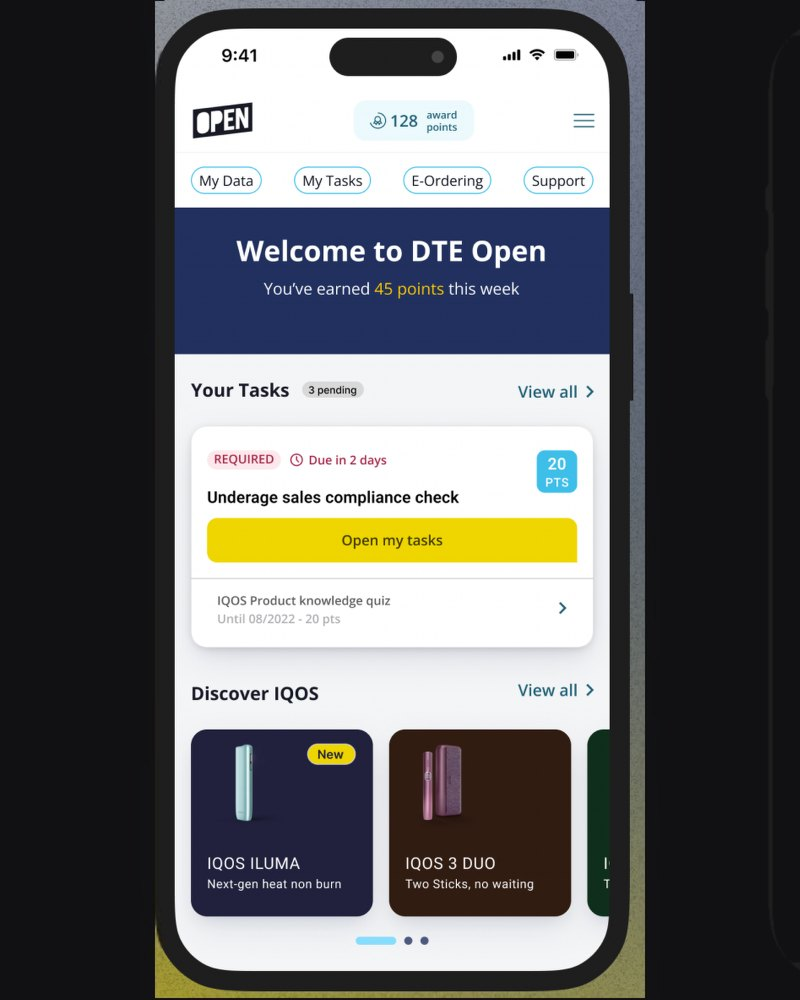
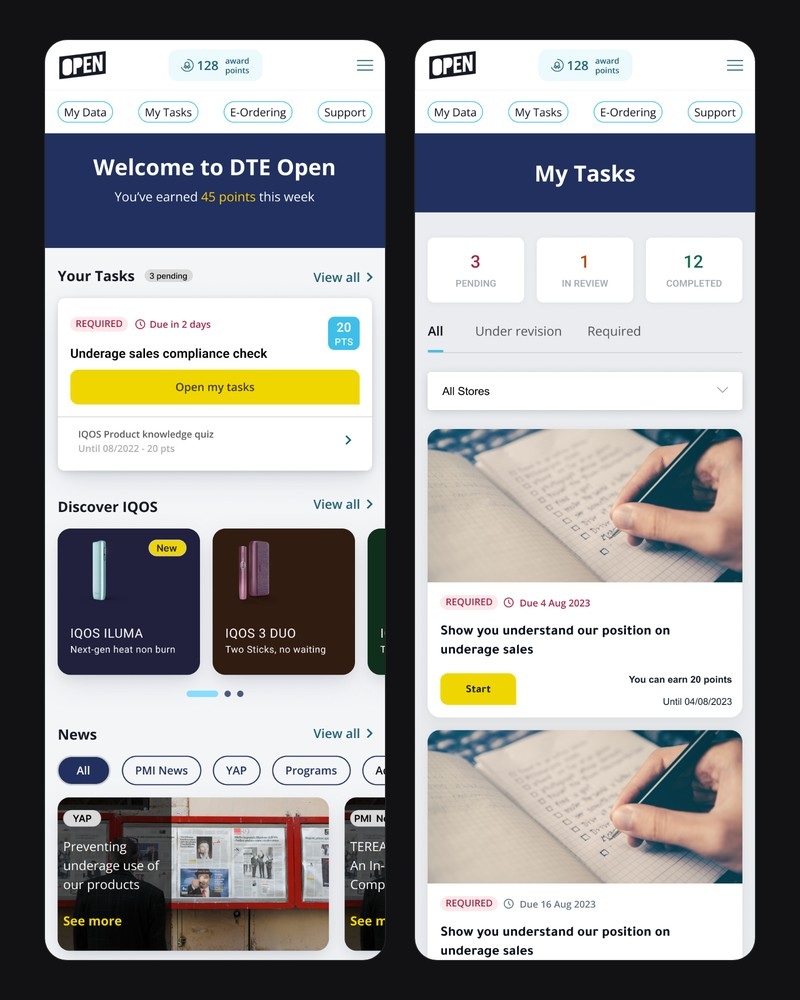
PMI: rebuilt evidence images from Figma at 2x; full-width figures and facts strip on case studies
Claude-Session: https://claude.ai/code/session_01AXHPT6AWr4FLTU6gsMczeY

diff --git a/src/styles.css b/src/styles.css
@@ -84,12 +84,11 @@ p { margin: 0 0 var(--s3); }
 
 .body { display: grid; gap: var(--s6); margin-top: var(--s5); }
 @media (min-width: 1024px) {
-  .body { grid-template-columns: 2fr 1fr; gap: var(--s6); align-items: start; margin-top: var(--s6); }
-  .panel { position: sticky; top: calc(var(--nav-h) + 32px); order: 2; }
-  .narrative { order: 1; }
+  .body { margin-top: var(--s6); }
+
 }
 /* Below 1024px the panel sits under the hero, above the narrative */
-@media (max-width: 1023.98px) { .panel { order: 1; } .narrative { order: 2; } }
+
 
 /* Metrics strip under the lede */
 .metrics { margin: 0 0 var(--s5); }
@@ -116,7 +115,7 @@ p { margin: 0 0 var(--s3); }
 .outcomes li { font-size: 15px; line-height: 1.5; padding: 10px 0; border-top: 1px solid var(--border); }
 .outcomes li:first-child { font-weight: 500; }
 
-.narrative { max-width: 62ch; }
+.narrative > :not(.fig) { max-width: 68ch; }
 .narrative h3 { font-family: var(--serif); font-size: 32px; line-height: 1.15; margin: var(--s6) 0 var(--s3); }
 @media (min-width: 1024px) { .narrative h3 { margin-top: var(--s7); } }
 .narrative h3:first-child { margin-top: 0; }
@@ -153,4 +152,9 @@ figcaption { font-size: 14px; line-height: 1.5; color: var(--text-2); margin-top
   .about-list > div { grid-template-columns: 220px 1fr; }
   .about-list ul { columns: 3; }
   .about-list .single { columns: 1; }
+}
+
+@media (min-width: 1024px) {
+  .panel dl { display: grid; grid-template-columns: 0.6fr 1.4fr 2fr 3fr; gap: var(--s4); padding-top: var(--s3); }
+  .panel .row { grid-template-columns: 1fr; gap: 6px; border-bottom: 0; padding: 0; }
 }

diff --git a/content/case-studies/pmi.md b/content/case-studies/pmi.md
@@ -12,7 +12,7 @@ client: Philip Morris International, via The Croc
 role: Senior UX Designer and project lead. I led two designers and owned the IA and component work
 team: The Croc design and delivery team. Client side: PMI head office digital team, market leads, IQOS brand team, compliance. HQ held scope and budget, markets owned their catalogues, compliance set the hard rules
 hero: hero.jpg
-heroAlt: The redesigned homepage and Rewards screens on two phones
+heroAlt: Homepage, My Tasks and Rewards on the shipped platform
 outcomes:
   - +21% retailer task completion, 62% to 75% averaged across launch markets (Salesforce Einstein Analytics)
   - 38% faster market launches, 16 weeks to 10, because every component was built once for all markets
@@ -24,19 +24,21 @@ outcomes:
 
 PMI's retailer platform had grown up separately in each European market. Same company, same products, but every country's site had been built around its own catalogue and priorities. Retailers use it to complete tasks, training and selling activities that earn rewards. HQ wanted one component system every market could reuse and reorder, instead of paying for a separate build each time.
 
+Before any design, we interviewed 25 people across five markets. They were already asking for one standard.
+
 Germany was the hard one. It already had a site that worked, so ours had to beat it before they would switch. We made Germany the bar for everyone.
 
-::image full s1-before-state.jpg
-The legacy German platform: a feed of promotions, a system notice as the welcome, and banners with no hierarchy between them.
+::image full s1-problem.jpg
+The German platform before, next to what the market interviews told us.
 
 ### 2. We had the evidence before the brief arrived
 
 I had worked on the platform market by market for two years before this, so we didn't start cold. A review of nine live markets showed the same problems everywhere: ten or eleven items in the main menu, related content scattered, support buried. The analytics told the rest. In one market the tasks page took over three quarters of all views, and almost half of those people left without opening anything else. Retailers came for a task and went.
 
-That led to a six-group architecture, which we tested by walking eight real user stories through it screen by screen. It took three rounds before it held. By the time the markets were in the room, "what do retailers actually do here?" had an answer that wasn't anyone's opinion.
+That fed straight into the architecture. The first EU sitemap had ten top-level sections; I pulled it down to six primary groups and moved the rest into secondary navigation. We tested it by walking eight real user stories through it screen by screen, and it took three rounds before it held. By the time the markets were in the room, "what do retailers actually do here?" had an answer that wasn't anyone's opinion.
 
-::image pair s2-menus.jpg s2-analytics.jpg
-Left, three markets' menus from the nine-market review. Right, the analytics: almost half of retailers who reached My Tasks left without visiting another page.
+::image full s2-behaviour-flow.jpg
+The behaviour flow: almost half of retailers who reached My Tasks left without opening another page.
 
 ### 3. Finding the sweet spot between HQ and the markets
 
@@ -44,27 +46,24 @@ This was the political part. The markets wanted a lot of components, each tuned 
 
 Honestly, I wanted more components too. My workaround was to put every market request through one question first: can an existing component do this with a CSS change to colour, layout, order or density? Most could. That left a short list that genuinely needed building, and I took that list to HQ with the research behind it.
 
-A good example: one market asked for a separate task-management component to push mandatory retailer actions, while others wanted campaigns and incentives at the top. Building for both meant new components to maintain for every market. I kept the shared dashboard card and recommended approved variants based on the type and urgency of the content, so a mandatory action looks and behaves like one without a new build.
+A good example: one market wanted a separate task-management component for mandatory actions, while others wanted campaigns and incentives at the top. I kept the shared dashboard card and recommended approved variants based on type and urgency, so a mandatory action looks and behaves like one without a new build.
 
 We agreed the short list in regional workshops with the markets and HQ together. Some markets gave up control over layouts and content they had asked for. In return they got a system that shipped on time and that HQ could keep running.
 
-::image pair s3-component-library.jpg s3-variants.jpg
-Left, the shared design system. Right, the same Rewards template in two market configurations: restyled, not rebuilt.
+::image full s3-decision.jpg
+One question decided what got built. The mandatory-action request became a variant of the shared task card, not a new component.
 
 ### 4. One hierarchy, rearranged per market
 
-Three groups pulled at the IA. The IQOS brand team wanted products in the main navigation. Compliance ruled that some product groups could not appear together. Every market wanted the hierarchy that suited its own catalogue.
+Three groups pulled at the IA. The IQOS brand team wanted products in the main navigation. Compliance ruled that tobacco and smoke-free products could never share a group. Every market wanted the hierarchy that suited its own catalogue.
 
 Compliance set the hard lines, the research settled the rest, and inside that each market could reorder. The same homepage card carries a different task order in every market, because the order is a market setting and the card isn't.
 
-::image pair s3-ia.jpg s4-same-component.jpg
-Left, the six-group architecture. Right, the homepage and My Tasks built from the same card component.
+::image full s4-ordering.jpg
+An illustration built from shipped components: each market sets the order, the card stays the same.
 
 ### 5. Results
 
 Retailer task completion rose from 62% to 75% on average, and new markets launched in 10 weeks instead of 16 because they configured what already existed. Time on platform went up 32%. That matters here: the platform exists to educate retailers about the products as much as to sell them, which is why the learning sits inside tasks with rewards. We launched with four markets and reached fourteen before I left. The system has since gone worldwide.
 
 What I'd do differently: lock in HQ's limits sooner. If we had agreed early which components and features mattered most, the markets would have had a clear frame from day one, instead of us working it out request by request.
-
-::image full s5-live-platform.jpg
-One system, fourteen hierarchies: every market reorders the same cards for its own catalogue.
